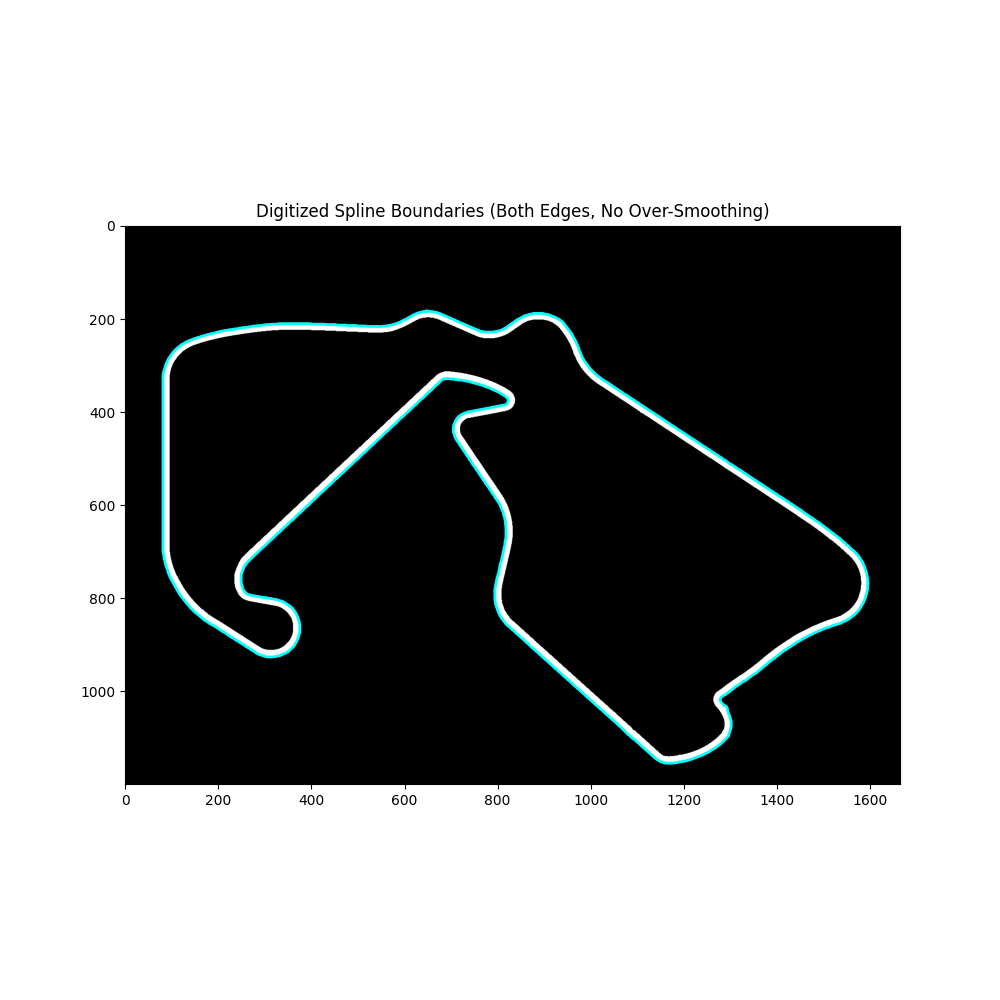
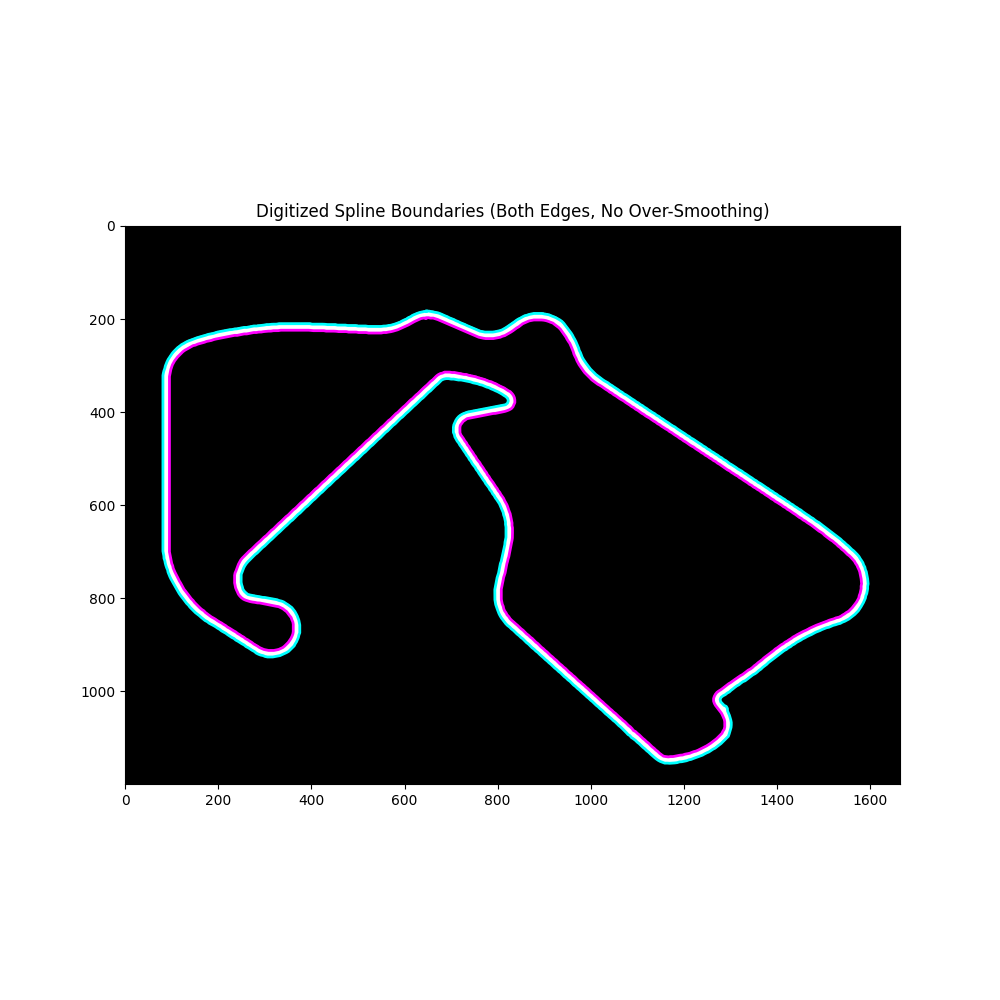
splines done

diff --git a/src/digitizeTrack.py b/src/digitizeTrack.py
@@ -12,14 +12,20 @@ image = cv2.imread(image_path, cv2.IMREAD_GRAYSCALE)
 _, image_bin = cv2.threshold(image, 127, 255, cv2.THRESH_BINARY)
 # image_bin = cv2.morphologyEx(image_bin, cv2.MORPH_CLOSE, np.ones((3,3),np.uint8))  # Uncomment if you see speckles
 
-# 3. Find the contours of the boundaries
-contours, _ = cv2.findContours(image_bin, cv2.RETR_EXTERNAL, cv2.CHAIN_APPROX_NONE)
-
-# 4. Filter for the two largest contours (inner and outer boundaries)
-contours = sorted(contours, key=cv2.contourArea, reverse=True)[:2]
+# 3. Find the contours of the boundaries (outer and inner)
+contours, hierarchy = cv2.findContours(image_bin, cv2.RETR_CCOMP, cv2.CHAIN_APPROX_NONE)
+main_contours = []
+if hierarchy is not None:
+    hierarchy = hierarchy[0]
+    for i, h in enumerate(hierarchy):
+        # h[3] == -1 means outermost, h[3] != -1 means it's a hole (inner edge)
+        if h[3] == -1 or h[3] >= 0:
+            main_contours.append(contours[i])
+# Sort by area and take the two largest
+main_contours = sorted(main_contours, key=cv2.contourArea, reverse=True)[:2]
 
 splines = []
-for contour in contours:
+for contour in main_contours:
     points = contour.reshape(-1, 2)
     x = points[:, 0]
     y = points[:, 1]
